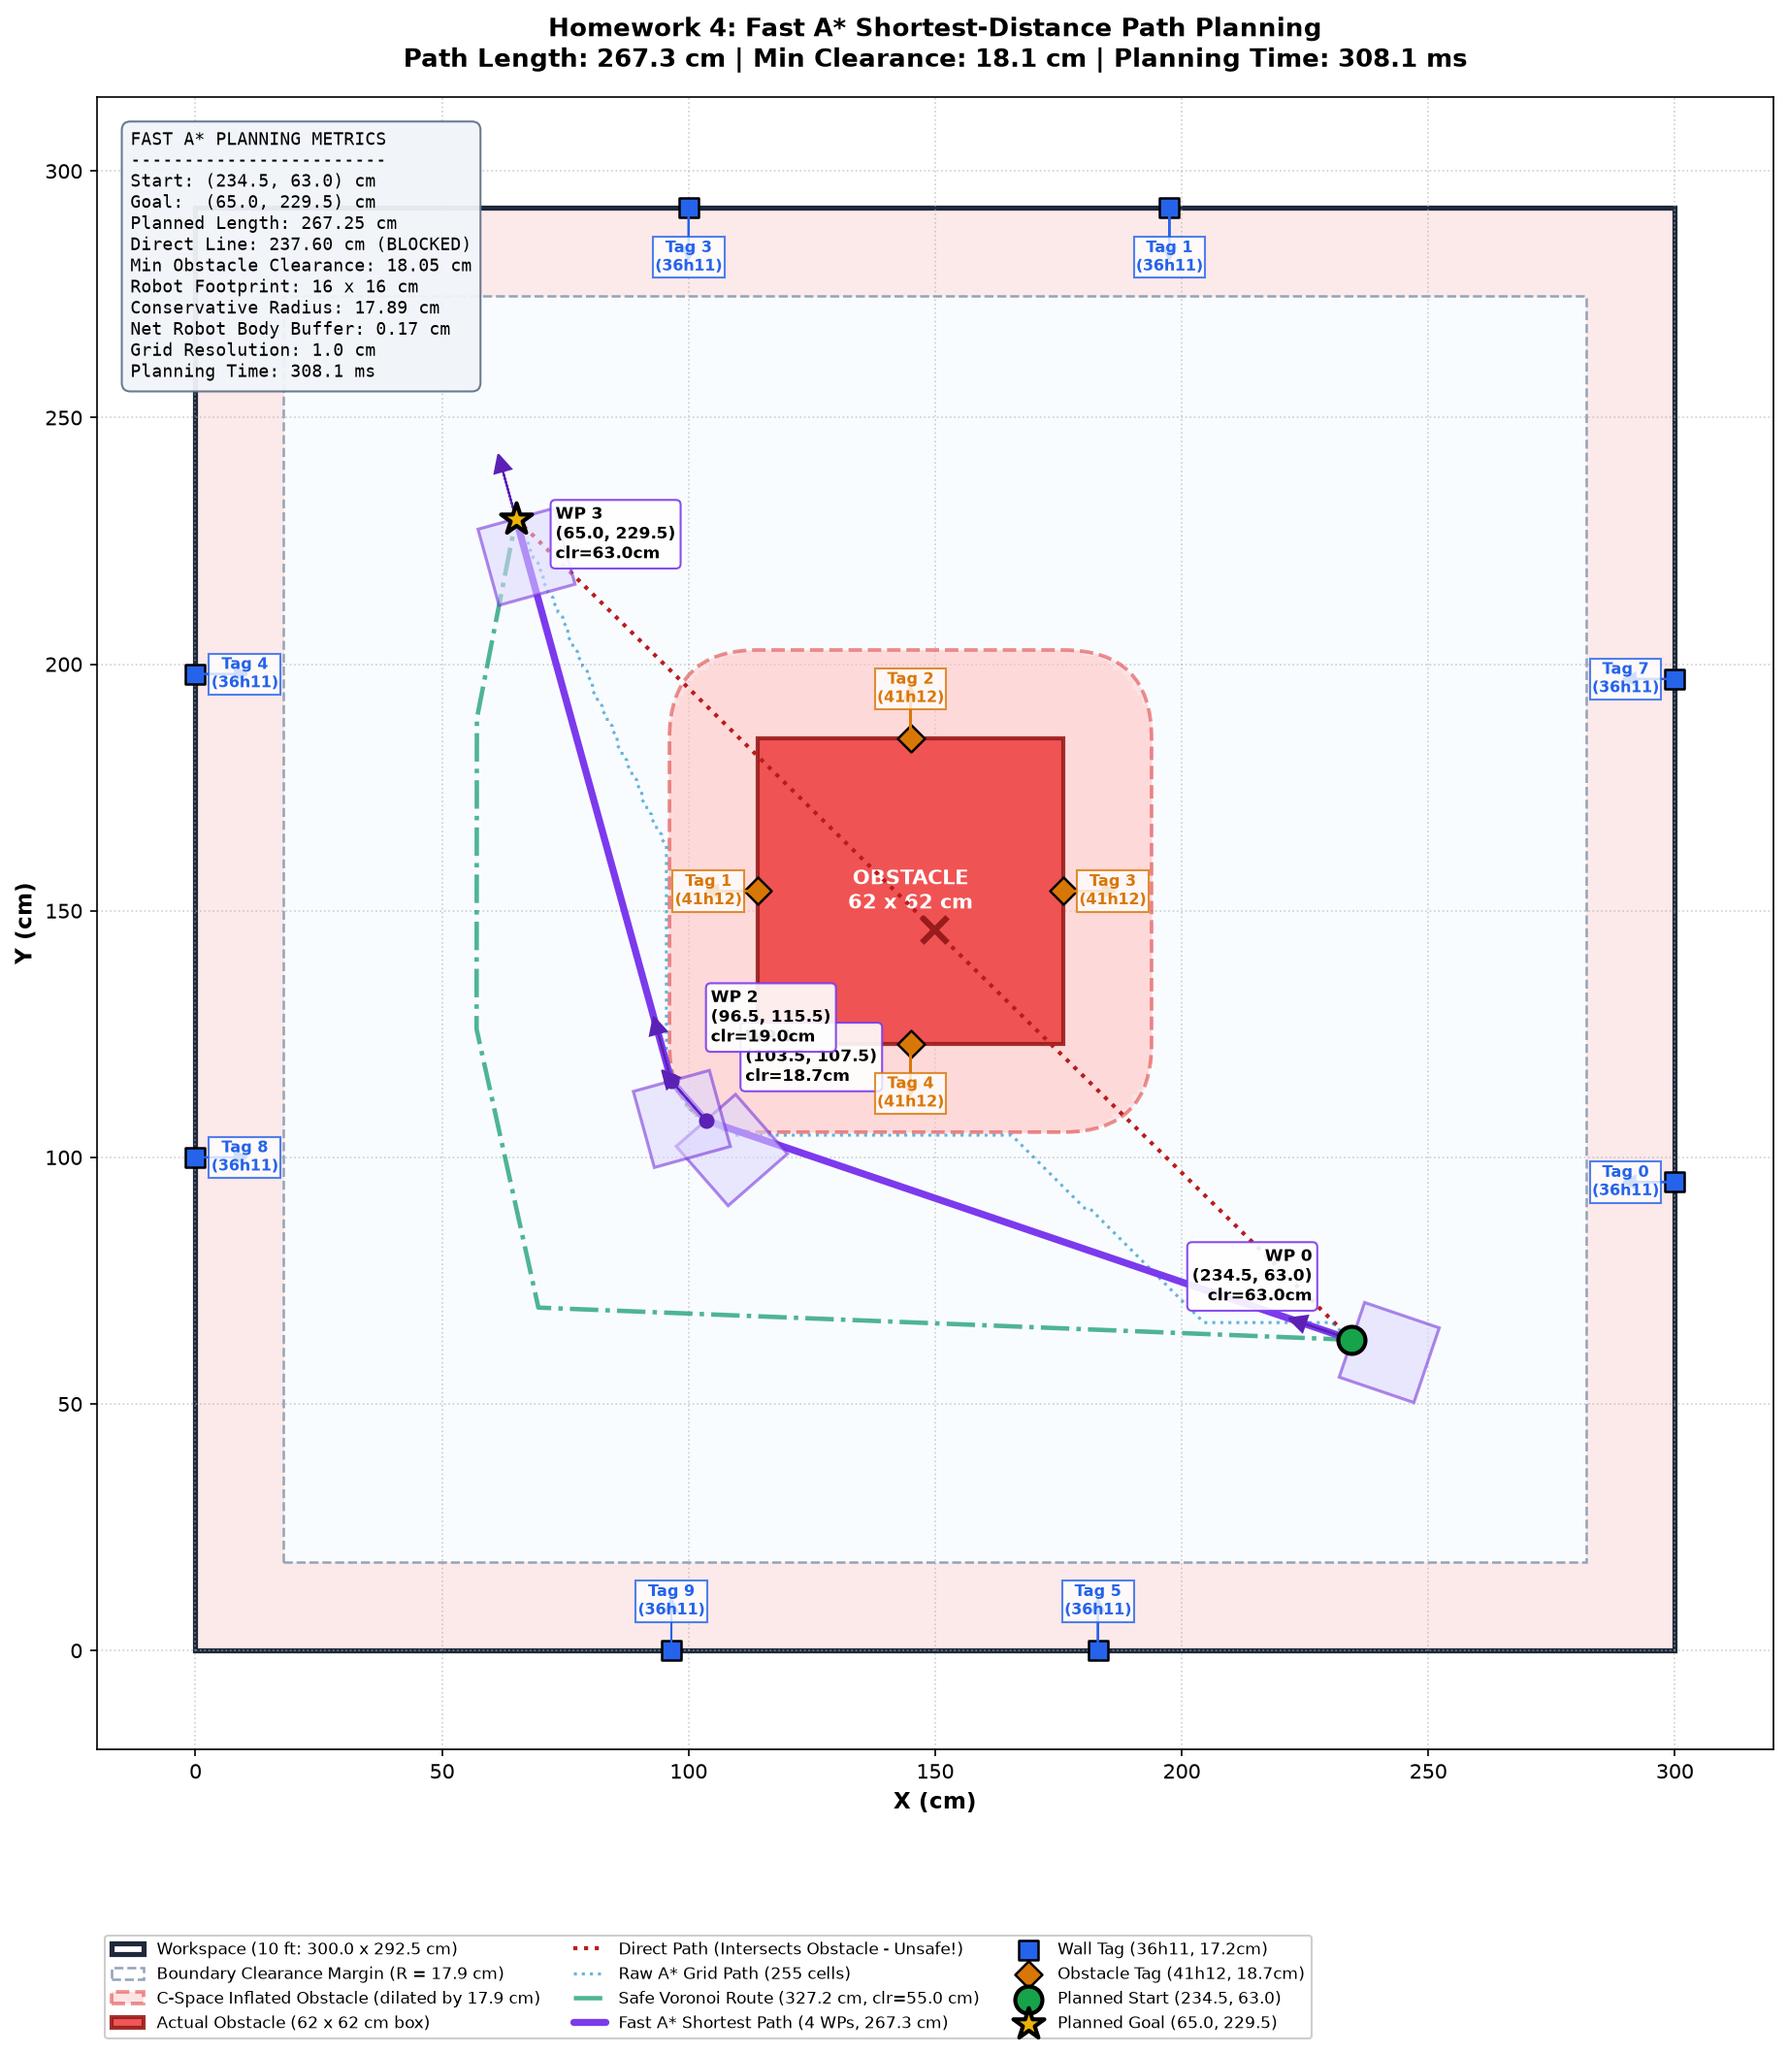
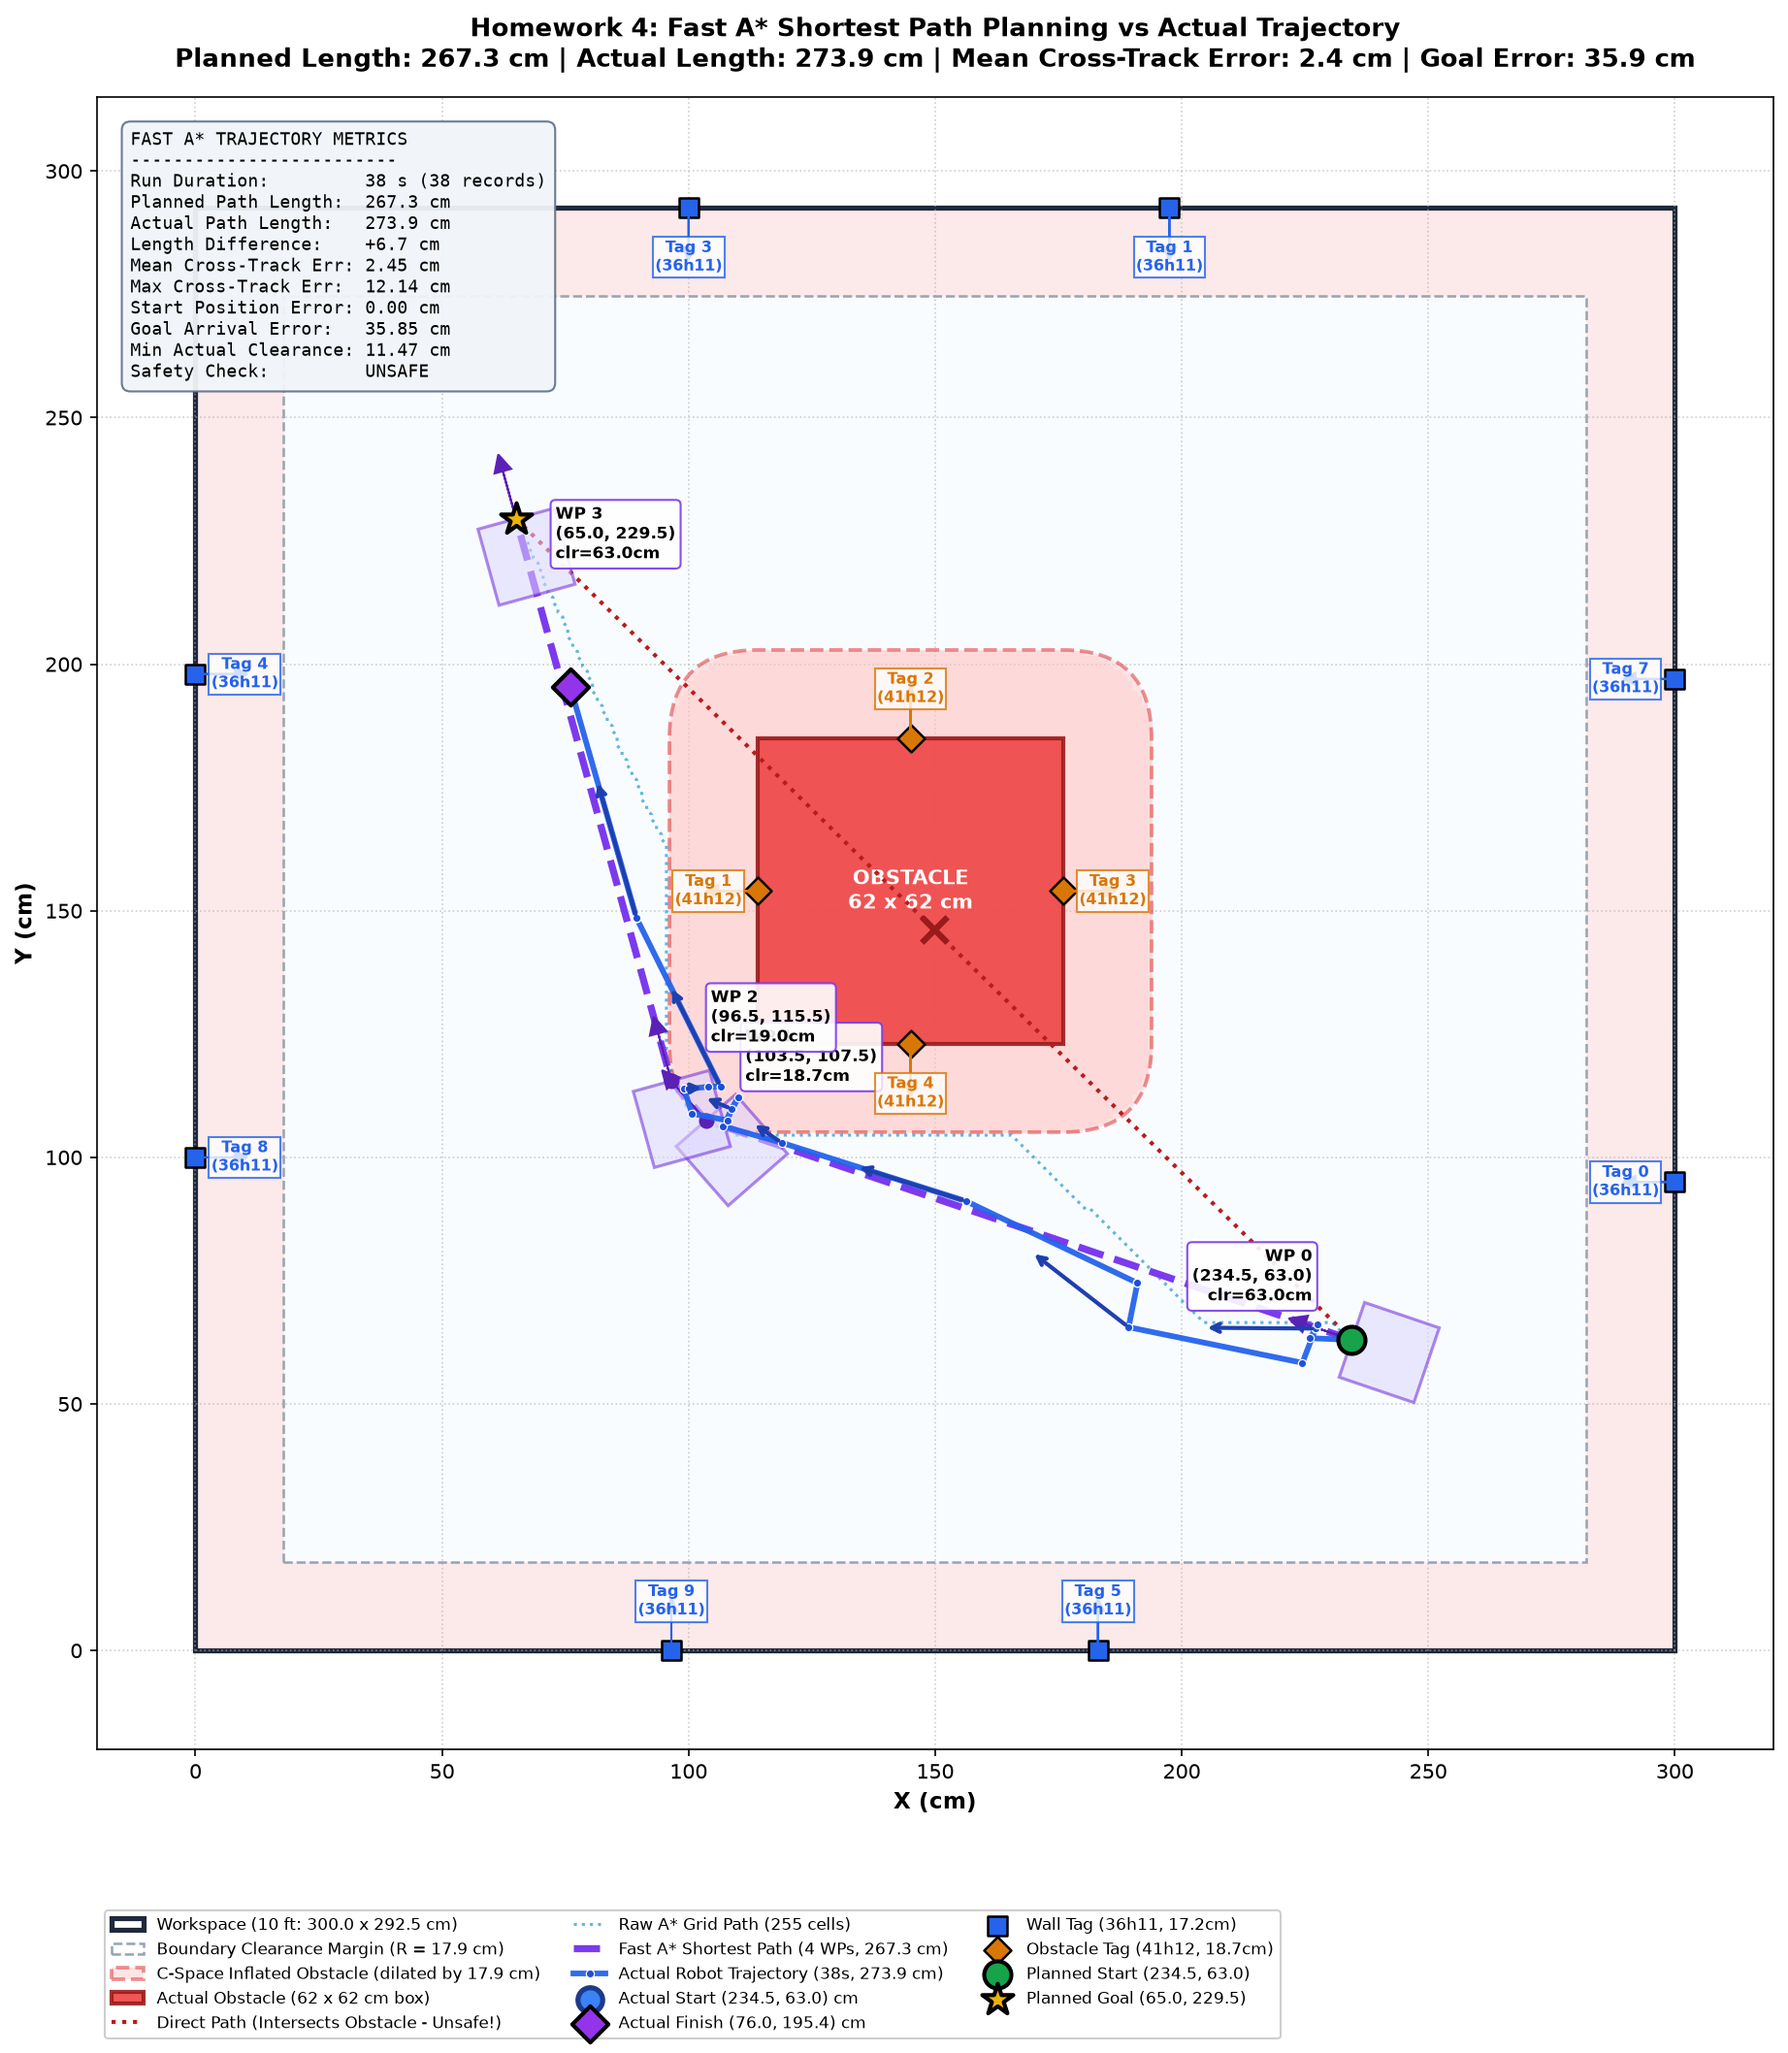
Revert to "add data for really good run"
This reverts commit a9123bfa83bccc409ed7bdf6c4c870e477adbfcc.

diff --git a/robot_testing/hw4_visualization.py b/robot_testing/hw4_visualization.py
@@ -179,7 +179,7 @@ def compute_trajectory_metrics(
         'mean_cte_cm': mean_cte_cm,
         'max_cte_cm': max_cte_cm,
         'min_actual_clearance_cm': min_actual_clearance_cm,
-        'bottleneck_clearance_cm': planned_path.bottleneck_clearance_cm,
+        'bottleneck_clearance_cm': getattr(planned_path, 'bottleneck_clearance_cm', getattr(planned_path, 'min_clearance_cm', 0.0)),
     }
 
 

diff --git a/robot_testing/astar_planner.py b/robot_testing/astar_planner.py
@@ -37,6 +37,11 @@ class FastPlannedPath:
     planning_time_s: float
     grid_resolution_cm: float
 
+    @property
+    def bottleneck_clearance_cm(self) -> float:
+        """Compatibility property for trajectory metric evaluation."""
+        return self.min_clearance_cm
+
 
 class OccupancyGrid:
     """2D Configuration-Space Occupancy Grid representation of the workspace."""
